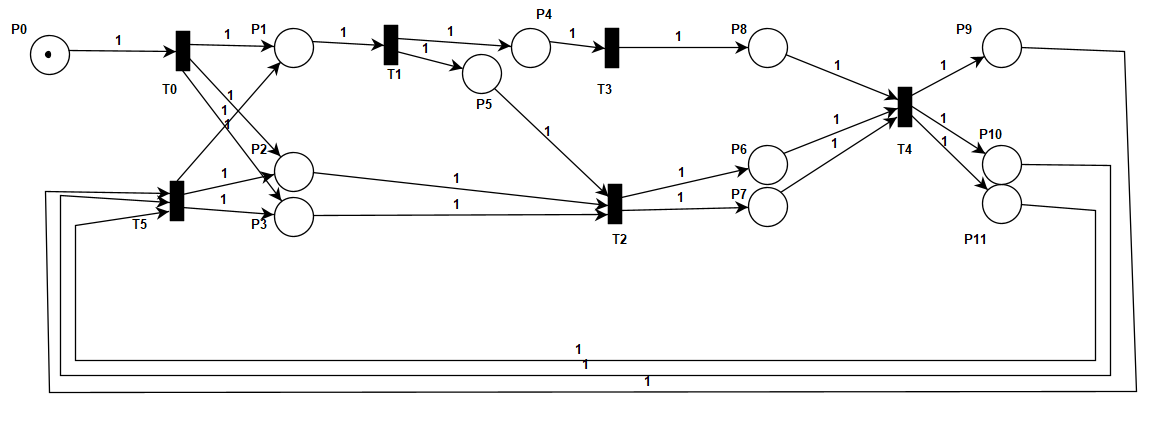
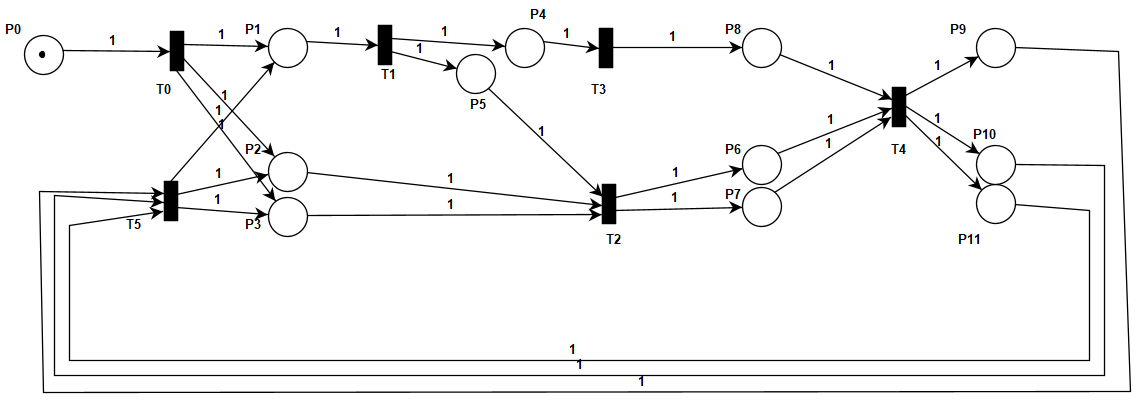
Changed itemize with table

Changed region(s): [[0.0, 0.0, 1.0, 0.9826], [0.4585, 0.2978, 0.4891, 0.3871], [0.4891, 0.2084, 0.5502, 0.2382]]

diff --git a/doc/relazione.tex b/doc/relazione.tex
@@ -76,27 +76,51 @@ In caso di stop il main thread esegue l'interrupt di tutti i worker threads che 
 \begin{figure}[H]
     \centering
     \includegraphics[width=\textwidth]{Petri net 1.png}
-    \caption{Petri net della soluzione Platform Threads.}
+    \caption{Petri net della soluzione Platform Threads con 2 worker.}
     \label{fig:platform-threads-diagram}
 \end{figure}
-Come si vede nel diagramma della Petri Net in figura \ref{fig:platform-threads-diagram}, ci sono diversi passaggi nella soluzione con platform threads.
-\begin{itemize}
-    \item \textbf{P0}: il main all'inizio.
-    \item \textbf{T0}: l'azione di creazione dei thread.
-    \item \textbf{P1}: il main dopo aver creato i thread.
-    \item \textbf{P2} e \textbf{P3}: 2 worker thread appena creati.
-    \item \textbf{T1}: l'azione di assegnazione del model ai thread.
-    \item \textbf{P4}: il main dopo aver assegnato il model ai thread.
-    \item \textbf{P5}: il main dopo aver sbloccato i thread.
-    \item \textbf{T2}: l'azione di aggiornamento delle velocità dei boids.
-    \item \textbf{P6} e \textbf{P7}: i worker thread dopo aver aggiornato le velocità dei boids.
-    \item \textbf{T3}: l'azione di aggiornamento della view.
-    \item \textbf{P8}: il main dopo aver aggiornato la view.
-    \item \textbf{T4}: l'azione di aggiornamento delle posizioni dei boids.
-    \item \textbf{P9}: il main dopo che i thread hanno aggiornato le posizioni.
-    \item \textbf{P10} e \textbf{P11}: i worker thread dopo aver aggiornato le posizioni dei boids.
-    \item \textbf{T5}: l'azione di sblocco dei thread per l'iterazione successiva.
-\end{itemize}
+
+\begin{table}[H]
+    \centering
+    \begin{tabular}{|c|l|}
+        \hline
+        \textbf{Stato/Transizione} & \multicolumn{1}{c|}{\textbf{Descrizione}} \\
+        \hline
+        \rule{0pt}{2.5ex} \textbf{P0} & \multicolumn{1}{c|}{Il main all'inizio.} \\[0.5ex]
+        \hline
+        \rule{0pt}{2.5ex} \textbf{T0} & \multicolumn{1}{c|}{L'azione di creazione dei thread.} \\[0.5ex]
+        \hline
+        \rule{0pt}{2.5ex} \textbf{P1} & \multicolumn{1}{c|}{Il main dopo aver creato i thread.} \\[0.5ex]
+        \hline
+        \rule{0pt}{2.5ex} \textbf{P2} e \textbf{P3} & \multicolumn{1}{c|}{2 worker thread appena creati.} \\[0.5ex]
+        \hline
+        \rule{0pt}{2.5ex} \textbf{T1} & \multicolumn{1}{c|}{L'azione di assegnazione del model ai thread.} \\[0.5ex]
+        \hline
+        \rule{0pt}{2.5ex} \textbf{P4} & \multicolumn{1}{c|}{Il main dopo aver assegnato il model ai thread.} \\[0.5ex]
+        \hline
+        \rule{0pt}{2.5ex} \textbf{P5} & \multicolumn{1}{c|}{Il main dopo aver sbloccato i thread.} \\[0.5ex]
+        \hline
+        \rule{0pt}{2.5ex} \textbf{T2} & \multicolumn{1}{c|}{L'azione di aggiornamento delle velocità dei boids.} \\[0.5ex]
+        \hline
+        \rule{0pt}{2.5ex} \textbf{P6} e \textbf{P7} & \multicolumn{1}{c|}{I worker thread dopo aver aggiornato le velocità dei boids.} \\[0.5ex]
+        \hline
+        \rule{0pt}{2.5ex} \textbf{T3} & \multicolumn{1}{c|}{L'azione di aggiornamento della view.} \\[0.5ex]
+        \hline
+        \rule{0pt}{2.5ex} \textbf{P8} & \multicolumn{1}{c|}{Il main dopo aver aggiornato la view.} \\[0.5ex]
+        \hline
+        \rule{0pt}{2.5ex} \textbf{T4} & \multicolumn{1}{c|}{L'azione di aggiornamento delle posizioni dei boids.} \\[0.5ex]
+        \hline
+        \rule{0pt}{2.5ex} \textbf{P9} & \multicolumn{1}{c|}{Il main dopo che i thread hanno aggiornato le posizioni.} \\[0.5ex]
+        \hline
+        \rule{0pt}{2.5ex} \textbf{P10} e \textbf{P11} & \multicolumn{1}{c|}{I worker thread dopo aver aggiornato le posizioni dei boids.} \\[0.5ex]
+        \hline
+        \rule{0pt}{2.5ex} \textbf{T5} & \multicolumn{1}{c|}{L'azione di sblocco dei thread per l'iterazione successiva.} \\[0.5ex]
+        \hline
+    \end{tabular}
+    \caption{Descrizione degli stati e delle transizioni nella Petri Net \ref{fig:platform-threads-diagram}.}
+    \label{tab:petri-net-description}
+\end{table}
+
 \newpage
 \section{Task-based}
 La soluzione task-based è stata implementata utilizzando l'API Java Executor Framework. All'inizio della funzione \textsf{runSimulation()} viene creato un 
@@ -234,7 +258,6 @@ Nel grafico \ref{fig:performance} sono riportati gli FPS medi in base al numero 
 
 \subsection{Scalabilità}
 Le varie implementazioni risultano scalabili dato che, aumentando il numero di core disponibili, il programma riesce a gestire un numero sempre maggiore di boids senza far calare le prestazioni.
-In particolare la versione che sfrutta i Platform Threads e la versione Task-Based beneficiano maggiormente dell'aumento del numero di core, mentre la versione che sfrutta i Virtual Threads mostra un incremento più contenuto.
 
 Per misurare la scalabilità sono stati eseguiti dei test variando il numero di core utilizzati, seguono le configurazioni testate e per ogni versione la quantità massima di Boids che permette al programma di restare a 25 FPS medi
 sempre su 500 iterazioni. I risultati sono mostrati in tabella \ref{tab:boids-performance} e nel grafico \ref{fig:scalability-graph}.
